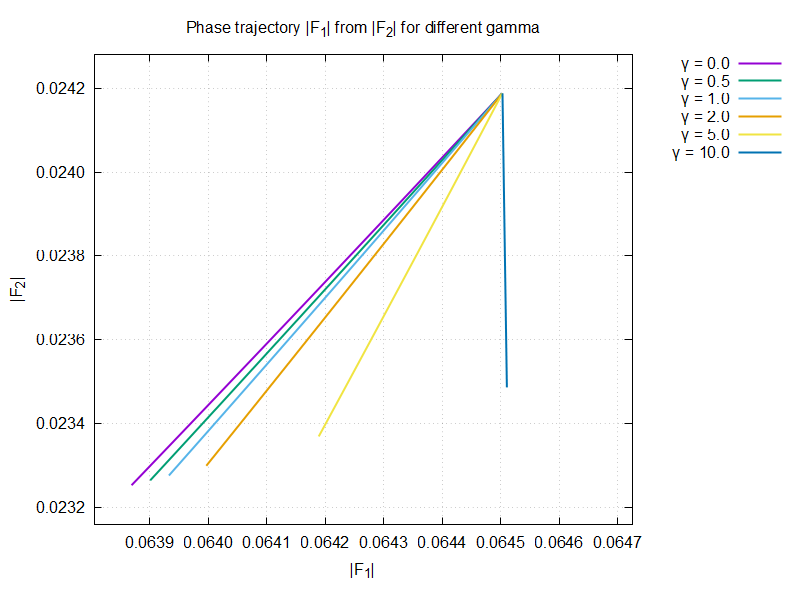
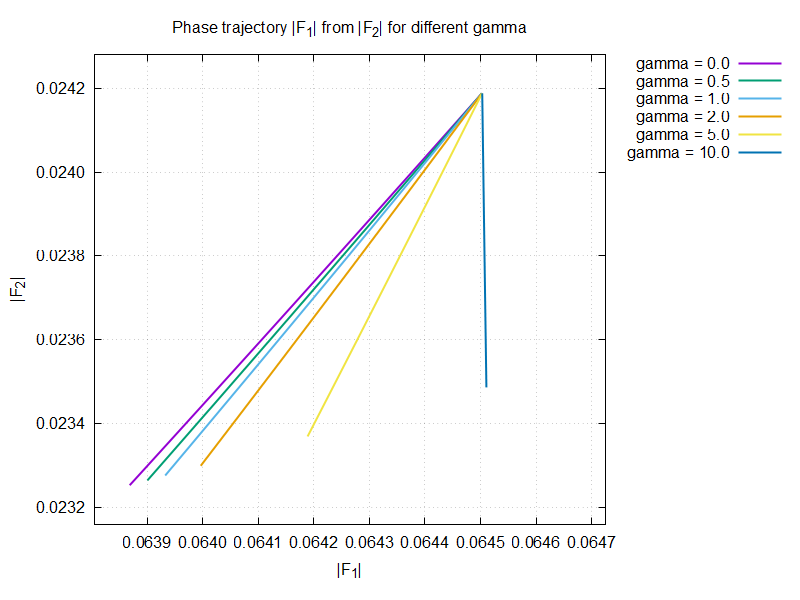
Final state of project

diff --git a/Computational_physics/Final_project/main.cpp b/Computational_physics/Final_project/main.cpp
@@ -21,9 +21,9 @@ void calculate_right_part(const vector<double>& u, const vector<double>& v, vect
     dv_dt[n - 1] = 0.0;
 
     for (int i = 1; i < n - 1; ++i) {
-        double abs_A_sq = u[i] * u[i] + v[i] * v[i];
-        double nonlinear_u = gamma * u[i] - abs_A_sq * u[i] - b_1 * abs_A_sq * v[i];
-        double nonlinear_v = gamma * v[i] + b_1 * abs_A_sq * u[i] - abs_A_sq * v[i];
+        double square_modulus_A = u[i] * u[i] + v[i] * v[i];
+        double nonlinear_u = gamma * u[i] - square_modulus_A * u[i] - b_1 * square_modulus_A * v[i];
+        double nonlinear_v = gamma * v[i] + b_1 * square_modulus_A * u[i] - square_modulus_A * v[i];
 
         double second_u = (u[i - 1] - 2 * u[i] + u[i + 1]) / (x_step * x_step);
         double second_v = (v[i - 1] - 2 * v[i] + v[i + 1]) / (x_step * x_step);
@@ -48,35 +48,36 @@ void calculate_fourier_coefficients(const vector<double>& u, const vector<double
 void runge_kutta_step(vector<double>& u, vector<double>& v, double gamma, double b_1, double b_2, double x_step, double t_step) {
     int n = u.size();
     
-    vector<double> k1_u(n), k1_v(n);
-    vector<double> k2_u(n), k2_v(n);
-    vector<double> temp_u(n), temp_v(n);
+    vector<double> k_1_u(n), k_1_v(n);
+    vector<double> k_2_u(n), k_2_v(n);
+    vector<double> temporary_u(n), temporary_v(n);
     
-    calculate_right_part(u, v, k1_u, k1_v, gamma, b_1, b_2, x_step);
+    calculate_right_part(u, v, k_1_u, k_1_v, gamma, b_1, b_2, x_step);
     
     for (int i = 1; i < n - 1; ++i) {
-        temp_u[i] = u[i] + 0.5 * t_step * k1_u[i];
-        temp_v[i] = v[i] + 0.5 * t_step * k1_v[i];
+        temporary_u[i] = u[i] + 0.5 * t_step * k_1_u[i];
+        temporary_v[i] = v[i] + 0.5 * t_step * k_1_v[i];
     }
     
-    calculate_right_part(temp_u, temp_v, k2_u, k2_v, gamma, b_1, b_2, x_step);
+    calculate_right_part(temporary_u, temporary_v, k_2_u, k_2_v, gamma, b_1, b_2, x_step);
     
     for (int i = 1; i < n - 1; ++i) {
-        u[i] += t_step * k2_u[i];
-        v[i] += t_step * k2_v[i];
+        u[i] += t_step * k_2_u[i];
+        v[i] += t_step * k_2_v[i];
     }
 }
 
 void save_gnuplot_data(const vector<double>& x_data, const vector<double>& y_data, const string& filename) {
     ofstream file(filename);
+
     for (size_t i = 0; i < x_data.size(); ++i) {
         file << x_data[i] << " " << y_data[i] << endl;
     }
+
     file.close();
 }
 
-void create_gnuplot_script(const vector<string>& data_files, const vector<string>& legend_labels, 
-                          const string& output_file, double x_min, double x_max, double y_min, double y_max) {
+void create_gnuplot_script(const vector<string>& data_files, const vector<string>& legend_labels, const string& output_file, double x_min, double x_max, double y_min, double y_max) {
     ofstream script("plot_script.gp");
     
     script << "set terminal pngcairo enhanced font 'Arial,12' size 800,600" << endl;
@@ -155,7 +156,9 @@ int main() {
                 }
             }
 
-            if (!stable) break;
+            if (!stable) {
+                break;
+            }
 
             complex<double> F_1, F_2;
             calculate_fourier_coefficients(u, v, x_step, F_1, F_2);
@@ -183,7 +186,7 @@ int main() {
             data_files.push_back(data_file);
             
             stringstream legend;
-            legend << "γ = " << fixed << setprecision(1) << gamma_value;
+            legend << "gamma = " << fixed << setprecision(1) << gamma_value;
             legend_labels.push_back(legend.str());
         }
     }
